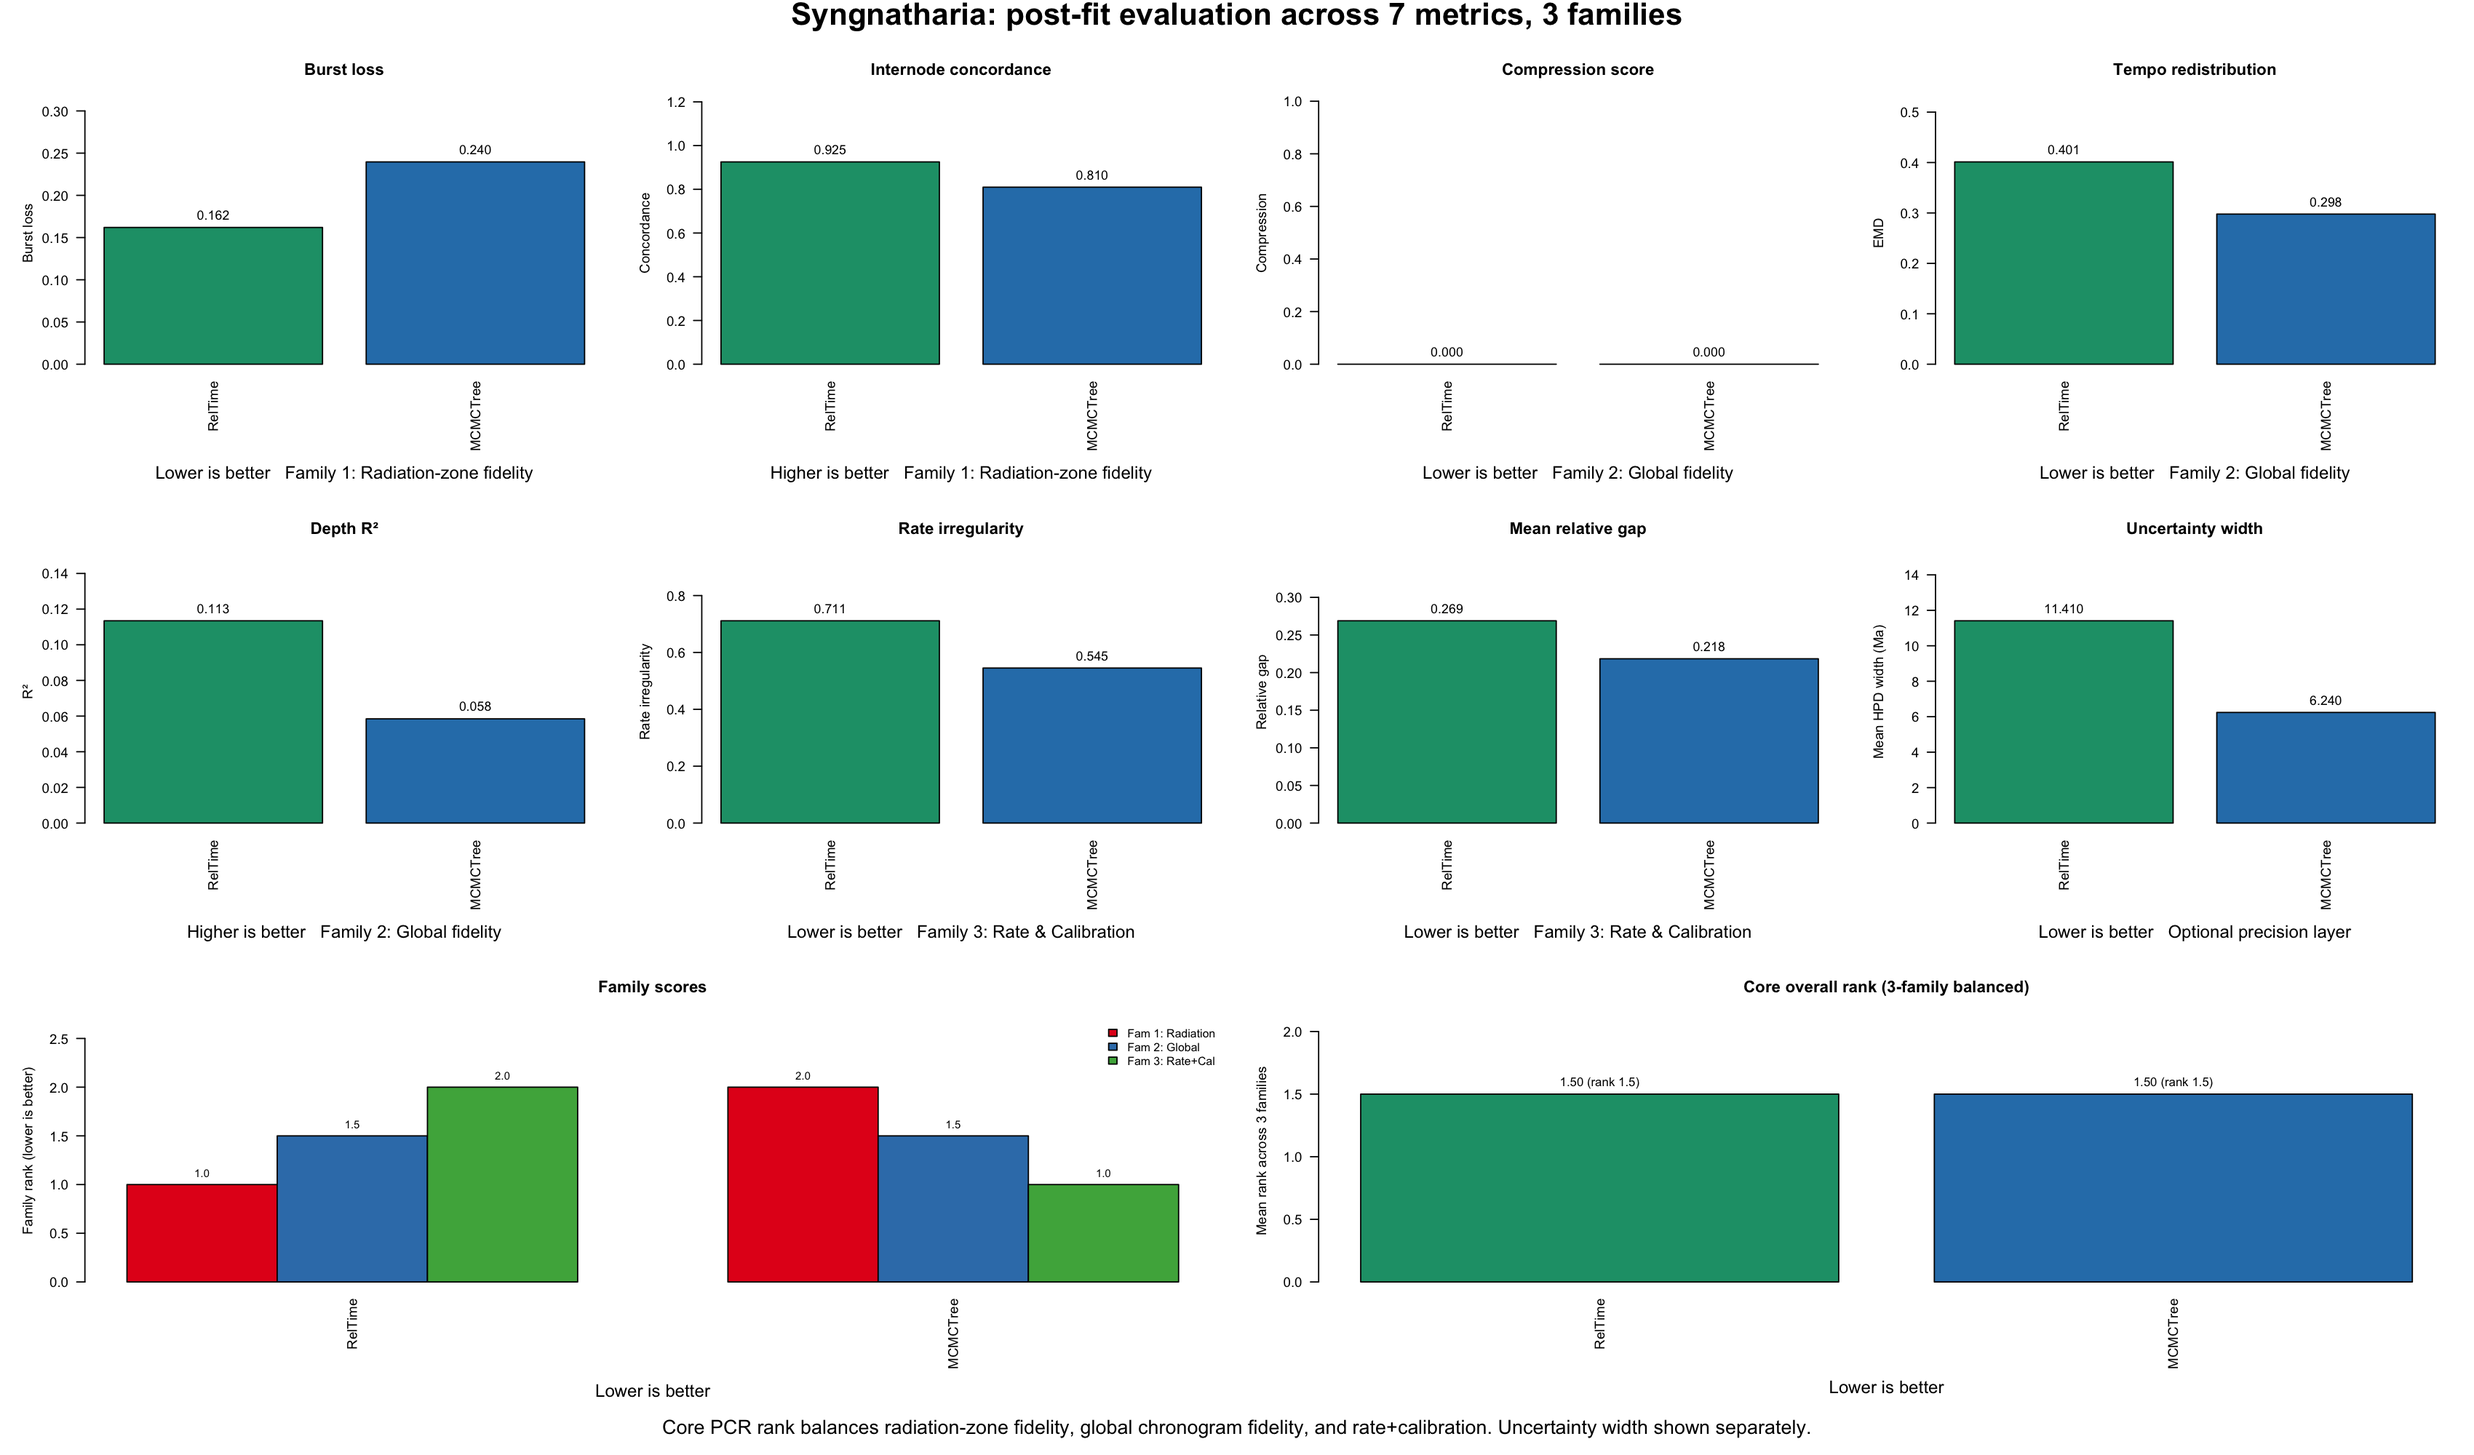
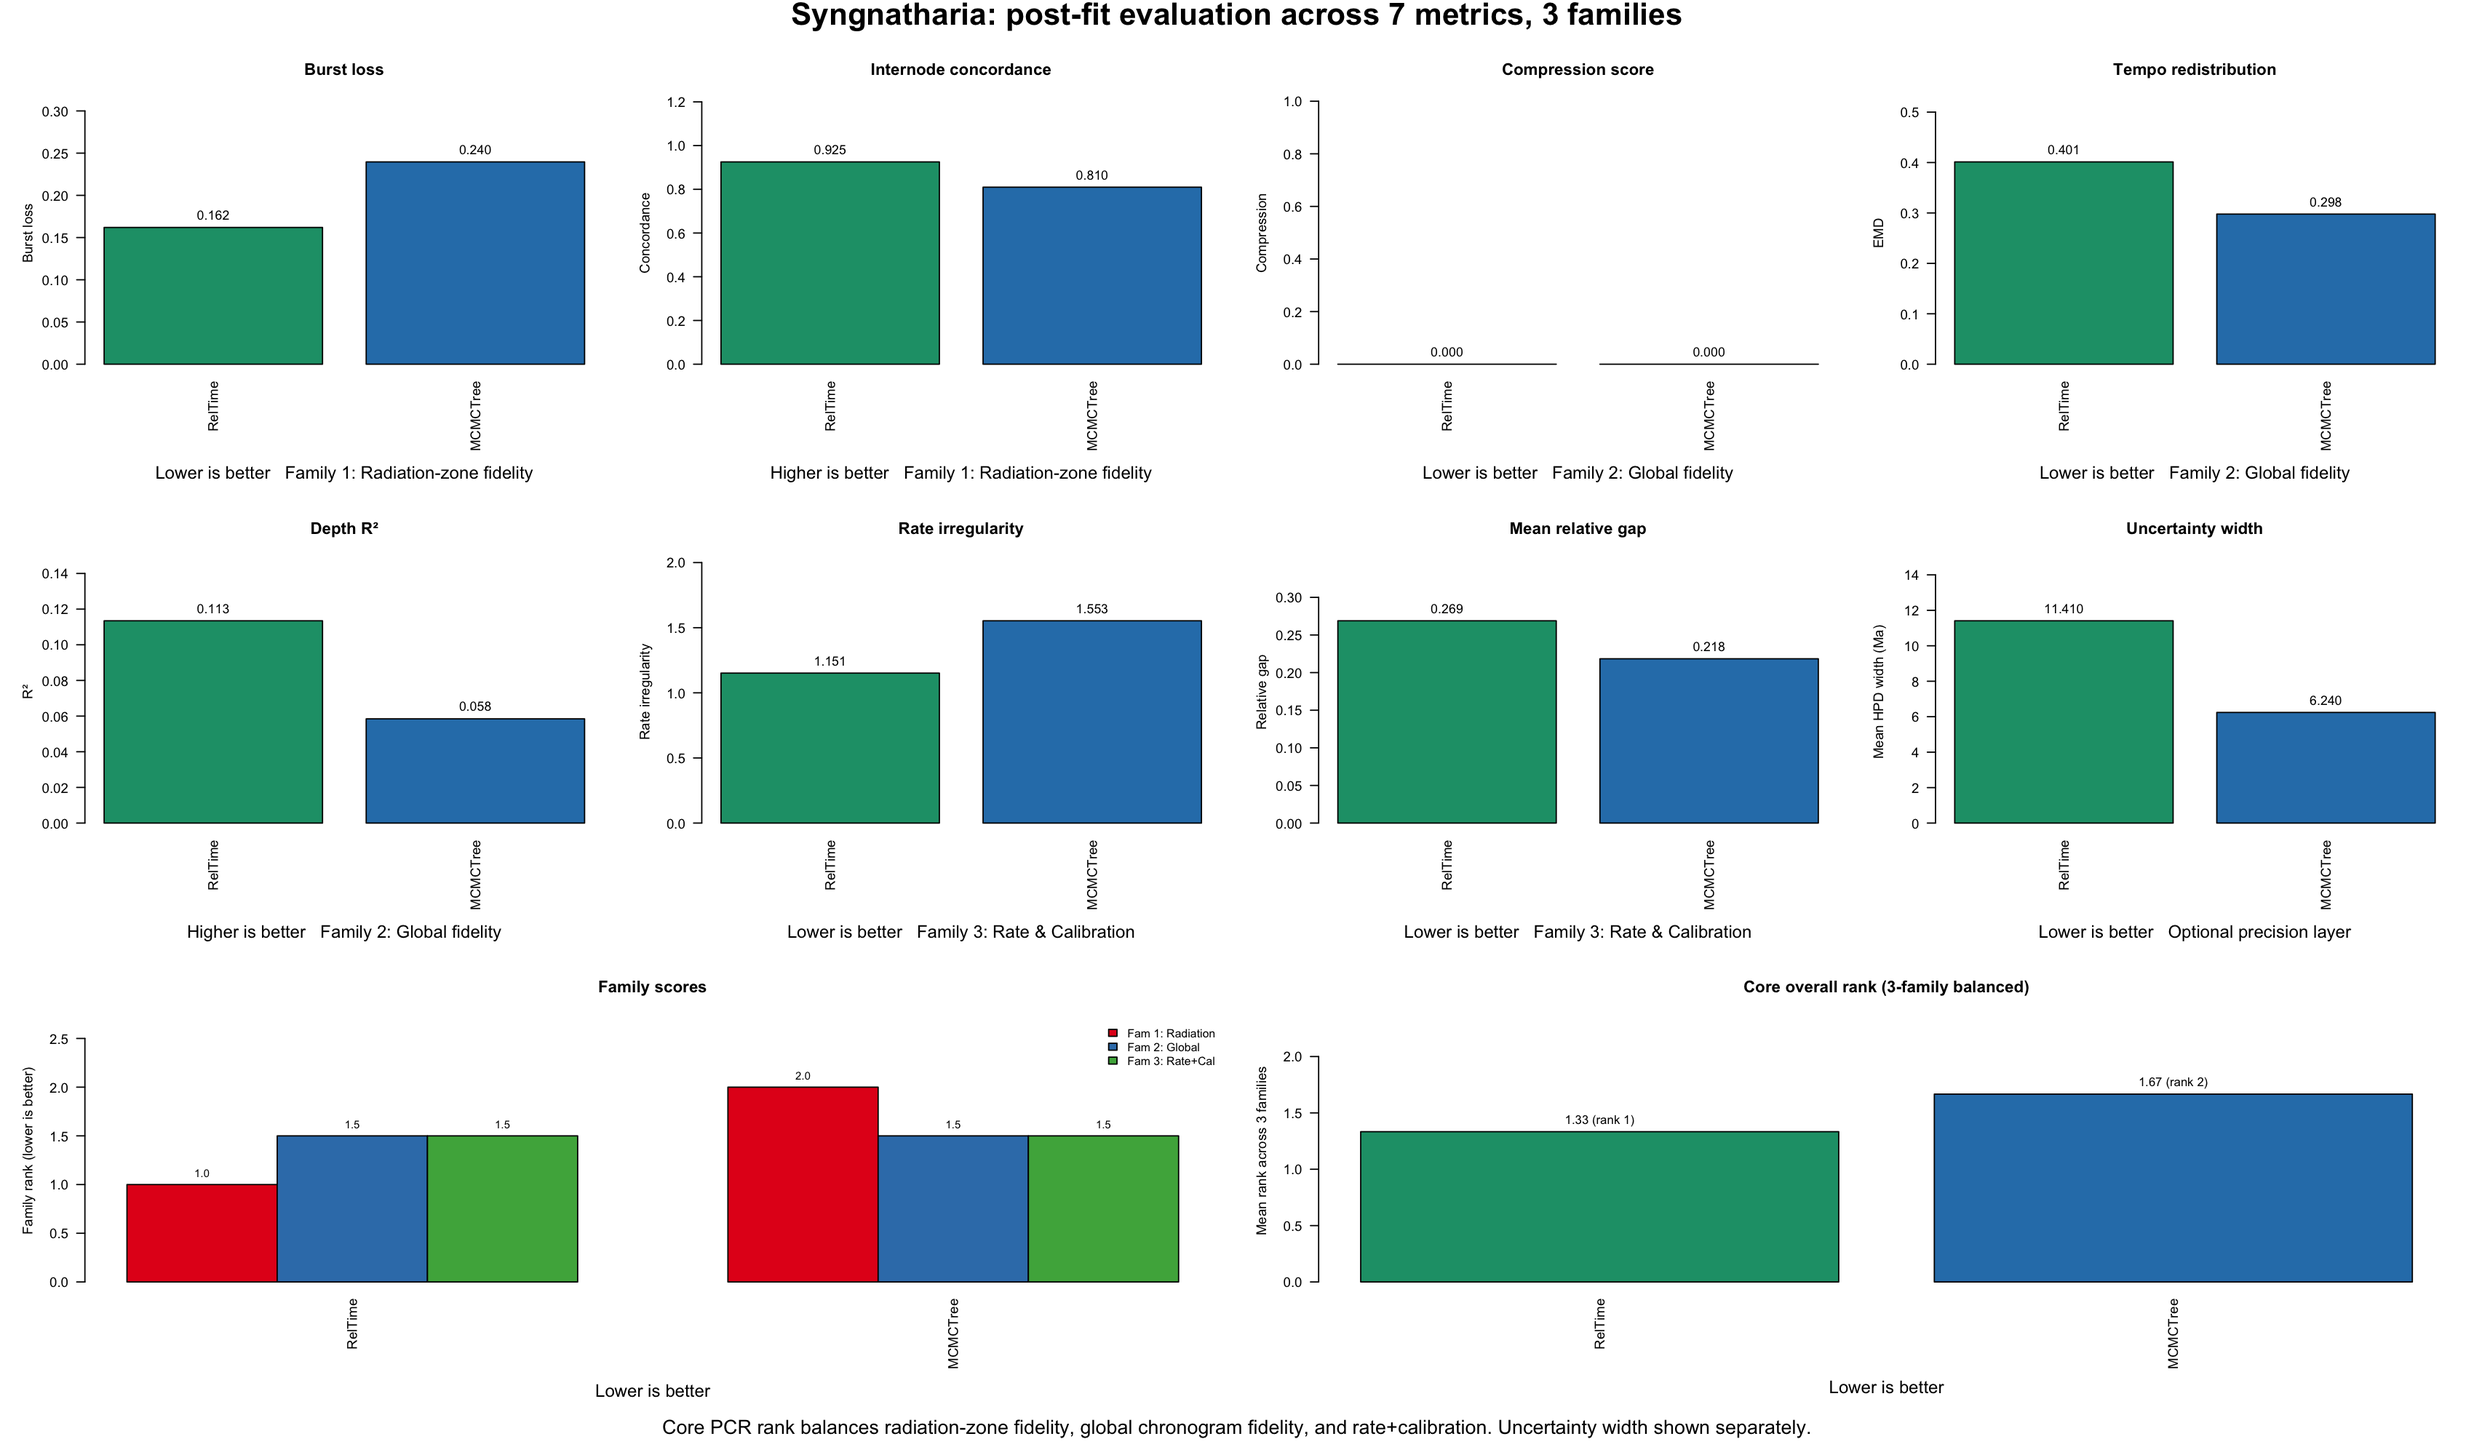
Restore 4-component rate_irregularity, flag BD prior bias in tempo_redistribution
Rate irregularity now includes parent-child jump and autocorrelation
penalty again (sd + jump + 2*extreme + autocorr_penalty). The 2-component
simplification was silently dropping MCMCTree's poor rate autocorrelation
(rho=0.37 vs RelTime's 0.82), flipping the winner on this metric.

Add caveat to tempo_redistribution: Bayesian BD tree priors smooth
backbone node depths toward uniform spacing, artificially reducing
EMD (Louca & Pennell 2020).

Syngnatharia result: RelTime wins 1.33 vs 1.67, consistent with
the original visual rationale from Santaquiteria et al. 2024.

diff --git a/2_PCR_POSTFIT_METRICS/README.md b/2_PCR_POSTFIT_METRICS/README.md
@@ -38,7 +38,7 @@ Outside radiation zones, the backbone of the tree — the deep splits and the ov
 
 - `compression_score` — Detects places where the chronogram collapses well-separated phylogram branches into near-simultaneous splits that were not in the original tree. This flags artificial compression — a known artifact where prior specifications and clock model choices can systematically distort branch lengths ([Bromham et al. 2018](https://doi.org/10.1111/brv.12390)). A recurrent issue with some dating methods, particularly `RelTime`, where genuine divergence events get squeezed into near-polytomies.
 
-- `tempo_redistribution` — How much the dating method reshuffles the timing of non-burst nodes relative to the phylogram. Measured as the earth mover's distance between non-burst node-depth distributions in the phylogram vs. chronogram. Less redistribution is better: it means the dating method preserved the phylogram's temporal backbone rather than rearranging it.
+- `tempo_redistribution` — How much the dating method reshuffles the timing of non-burst nodes relative to the phylogram. Measured as the earth mover's distance between non-burst node-depth distributions in the phylogram vs. chronogram. Less redistribution is better: it means the dating method preserved the phylogram's temporal backbone rather than rearranging it. **Caveat:** Bayesian methods using constant-rate birth-death tree priors may score artificially well on this metric because the prior smooths backbone node depths toward uniform spacing, reducing the EMD independently of chronogram quality ([Louca & Pennell 2020](https://doi.org/10.1038/s41586-020-2176-1)). This should be considered when comparing Bayesian vs. non-Bayesian methods.
 
 - `depth_r2` — Overall correlation between node depths in the phylogram and chronogram. A high R² means the chronogram largely respects the relative ordering and spacing of divergence events encoded in the phylogram. Under realistic rate variation this will not be perfect, but a good dating method should not scramble the depth structure.
 
@@ -48,7 +48,7 @@ Outside radiation zones, the backbone of the tree — the deep splits and the ov
 
 For each branch, dividing the phylogram branch length (substitutions) by the chronogram branch duration (time) gives an implied evolutionary rate. This family evaluates whether those implied rates are biologically plausible and whether the chronogram respects its calibration constraints. Rate estimation and calibration fit are the two fundamental axes along which dating methods can fail independently of tree topology ([dos Reis et al. 2016](https://doi.org/10.1038/nrg.2015.8); [Ho & Duchêne 2014](https://doi.org/10.1111/mec.12953)).
 
-- `rate_irregularity` — The score rises when implied rates are too dispersed or produce too many outlier branches. This follows the penalized-likelihood and relaxed-clock literature on among-lineage rate variation ([Sanderson 2002](https://doi.org/10.1093/oxfordjournals.molbev.a003974); [Lepage et al. 2007](https://doi.org/10.1093/molbev/msm193); [Ho & Duchêne 2014](https://doi.org/10.1111/mec.12953)). The metric penalizes erratic, unpatterned rate jumps that suggest overfitting or poor convergence rather than genuine biological rate heterogeneity.
+- `rate_irregularity` — The score rises when implied rates are too dispersed, jump sharply from parent to child branch, produce too many outlier branches, or lose the positive autocorrelation expected among closely related lineages. This follows the penalized-likelihood and relaxed-clock literature on among-lineage rate variation and autocorrelation ([Sanderson 2002](https://doi.org/10.1093/oxfordjournals.molbev.a003974); [Lepage et al. 2007](https://doi.org/10.1093/molbev/msm193); [Ho & Duchêne 2014](https://doi.org/10.1111/mec.12953)). The metric penalizes erratic, unpatterned rate jumps that suggest overfitting or poor convergence rather than genuine biological rate heterogeneity.
 
 - `mean_relative_gap` — For non-fixed calibration constraints (ranges, not point calibrations), measures how far estimated node ages sit from calibration interval boundaries relative to interval width. A chronogram that places calibrated nodes right at the edge of their prior ranges may be "rail-riding" — constrained by the prior rather than informed by the data ([Szöllősi et al. 2022](https://doi.org/10.1093/sysbio/syab084)). This is the same general idea as ghost-lineage and stratigraphic-congruence measures ([Huelsenbeck 1994](https://doi.org/10.1017/S009483730001294X); [Wills 1999](https://doi.org/10.1080/106351599260148)). It should be interpreted carefully: fossils usually provide minimum ages, not true lineage origins, so a tree that minimizes this too aggressively can simply be too young overall ([Parham et al. 2012](https://doi.org/10.1093/sysbio/syr107)). `NA` when all calibrations are fixed, in which case it drops from Family 3.
 
@@ -131,11 +131,13 @@ What it means: overall goodness-of-fit between relative node depths. Higher R² 
 ```text
 branch_rate = phylogram_branch_length / chronogram_branch_duration
 log_rate_sd = sd(log(branch_rate))
+parent_child_jump = mean(|log(child_rate) - log(parent_rate)|)
 extreme_rate_frac = fraction of branches with log(rate) outside 1.5 * IQR of log-rates
-rate_irregularity = log_rate_sd + 2 * extreme_rate_frac
+autocorr_penalty = 1 - max(Spearman_rho(parent_rate, child_rate), 0)
+rate_irregularity = log_rate_sd + parent_child_jump + 2 * extreme_rate_frac + autocorr_penalty
 ```
 
-What it means: the score rises when branchwise rates are more dispersed or produce more extreme outlier branches.
+What it means: the score rises when branchwise rates are more dispersed, jump more sharply from parent to child, produce more extreme outlier branches, or lose positive autocorrelation. The autocorrelation component is important because well-behaved relaxed clocks produce rates that are correlated between adjacent branches — a dating method that creates erratic parent-child rate jumps is likely imposing node placements that conflict with the molecular signal.
 
 `mean_relative_gap`
 
@@ -213,11 +215,10 @@ That is the key point of this first example: the choice to prefer `RelTime` came
 
 ### Quick takeaway
 
-- `RelTime` is the PCR winner in this comparison
-- The 3-family core rank is numerically tied (1.50 vs 1.50), but `RelTime` wins the two families that directly test chronogram fidelity to the phylogram (Families 1 and 2 on tree-structure metrics), while `MCMCTree` wins only the parametric family (Family 3: rate smoothness and calibration proximity)
+- `RelTime` is the core PCR winner in this comparison (1.33 vs 1.67)
 - `RelTime` wins Family 1 (radiation-zone fidelity): better `burst_loss` and `internode_concordance`
-- `RelTime` also wins `depth_r2` (overall depth correlation) in Family 2; `MCMCTree` wins `tempo_redistribution`; `compression_score` is zero for both (excluded as zero-variance)
-- `MCMCTree` wins Family 3 (rate & calibration): lower `rate_irregularity` and lower `mean_relative_gap`
+- Family 2 (global chronogram fidelity) is tied: `RelTime` wins `depth_r2`, `MCMCTree` wins `tempo_redistribution`, `compression_score` is zero for both (excluded as zero-variance)
+- Family 3 (rate & calibration) is tied: `RelTime` wins `rate_irregularity`, `MCMCTree` wins `mean_relative_gap`
 - `MCMCTree` also has narrower extracted HPD bars, so it wins the optional precision layer on interval width
 - `Figure A` is the original visual rationale from the paper; `Figure B` is the quantitative post-fit follow-up
 
@@ -233,15 +234,15 @@ The core PCR rank is balanced across three families (radiation-zone fidelity, gl
 
 | candidate | burst loss | internode concordance | compression score | tempo redistribution | depth R² | rate irregularity | mean relative gap | uncertainty width (Ma) | core rank |
 | --- | ---: | ---: | ---: | ---: | ---: | ---: | ---: | ---: | ---: |
-| `RelTime` | `0.162` | `0.925` | `0.000` | `0.401` | `0.113` | `0.711` | `0.269` | `11.41` | `1.50` |
-| `MCMCTree` | `0.240` | `0.810` | `0.000` | `0.298` | `0.058` | `0.545` | `0.218` | `6.24` | `1.50` |
+| `RelTime` | `0.162` | `0.925` | `0.000` | `0.401` | `0.113` | `1.151` | `0.269` | `11.41` | `1.33` |
+| `MCMCTree` | `0.240` | `0.810` | `0.000` | `0.298` | `0.058` | `1.553` | `0.218` | `6.24` | `1.67` |
 
 Family breakdown:
 
 | candidate | Family 1 (radiation zone) | Family 2 (global) | Family 3 (rate + cal) | Core rank |
 | --- | ---: | ---: | ---: | ---: |
-| `RelTime` | `1.0` | `1.5` | `2.0` | `1.50` |
-| `MCMCTree` | `2.0` | `1.5` | `1.0` | `1.50` |
+| `RelTime` | `1.0` | `1.5` | `1.5` | `1.33` |
+| `MCMCTree` | `2.0` | `1.5` | `1.5` | `1.67` |
 
 ### Figure B: Post-fit comparison across metric families
 
@@ -253,19 +254,19 @@ The uncertainty-width separation is deliberate. The RelTime literature does not 
 
 ### Interpretation for this example
 
-- `RelTime` is the PCR winner. Although the numerical rank is tied at 1.50, `RelTime` wins the metrics that directly evaluate how well the chronogram preserves the phylogram's branching structure — which is the core purpose of PCR
+- `RelTime` is the core PCR winner (1.33 vs 1.67)
 - `RelTime` wins Family 1 (radiation-zone fidelity): it better preserves the burst structure and internode variability within radiation zones — consistent with the original visual rationale from Figure A
-- `RelTime` also wins `depth_r2` in Family 2: the overall depth correlation between phylogram and chronogram is higher for `RelTime`, meaning it better preserves the relative ordering and spacing of divergence events
-- `MCMCTree` wins Family 3 (rate & calibration): it has lower rate dispersion across branches and stays closer to the calibration minima. These are desirable parametric properties, but they do not override the structural fidelity advantage of `RelTime`
+- Family 2 (global fidelity) is tied: `RelTime` has higher depth R² (better overall depth correlation), but `MCMCTree` has lower tempo redistribution (less reshuffling of backbone node depths). Note that `tempo_redistribution` may favor Bayesian methods whose birth-death tree priors smooth backbone node depths toward uniform spacing, artificially reducing the EMD — a concern documented in the molecular dating literature ([Mello & Kumar 2021](https://doi.org/10.1111/1755-0998.13249); [Louca & Pennell 2020](https://doi.org/10.1038/s41586-020-2176-1))
+- Family 3 (rate & calibration) is tied: `RelTime` wins `rate_irregularity` (lower rate dispersion and better parent-child rate autocorrelation), while `MCMCTree` wins `mean_relative_gap` (stays closer to calibration minima)
 - `MCMCTree` also has narrower extracted HPD bars, so it wins the optional uncertainty-width layer
 - The post-fit metrics support the original visual rationale from Figure A: `RelTime` better preserves the branching signal seen in the RAxML phylogram
 - This is exactly the kind of case where a visual choice made before these metrics existed can now be quantified explicitly instead of being left as impression only
 
 ### Practical decision rule
 
-1. If you want the tree that best preserves the phylogram's branching structure, choose `RelTime`. It wins radiation-zone fidelity and overall depth concordance.
+1. If you want the core PCR winner focused on chronogram behavior, choose `RelTime`. It wins radiation-zone fidelity and rate regularity.
 2. If you care primarily about calibration fit and narrower interval estimates, `MCMCTree` wins `mean relative gap` and the optional uncertainty-width layer.
-3. Report the tradeoff explicitly: `RelTime` is the better chronogram for structural fidelity, while `MCMCTree` has smoother rates and tighter calibration fit.
+3. Report the tradeoff explicitly: `RelTime` is the better chronogram for structural fidelity and rate smoothness, while `MCMCTree` stays closer to calibration minima and has narrower intervals.
 4. The original visual choice to favor `RelTime` ([Santaquiteria et al. 2024](https://www.journals.uchicago.edu/doi/10.1086/733931)) is supported quantitatively by the current post-fit framework.
 
 <details>
